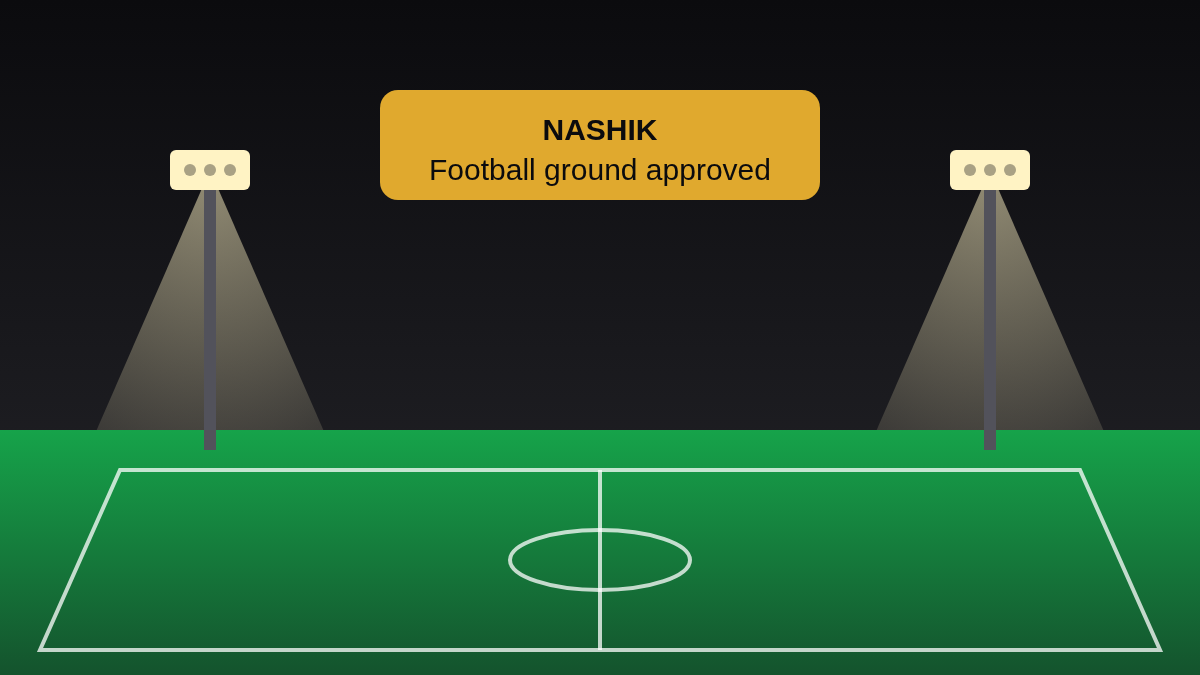
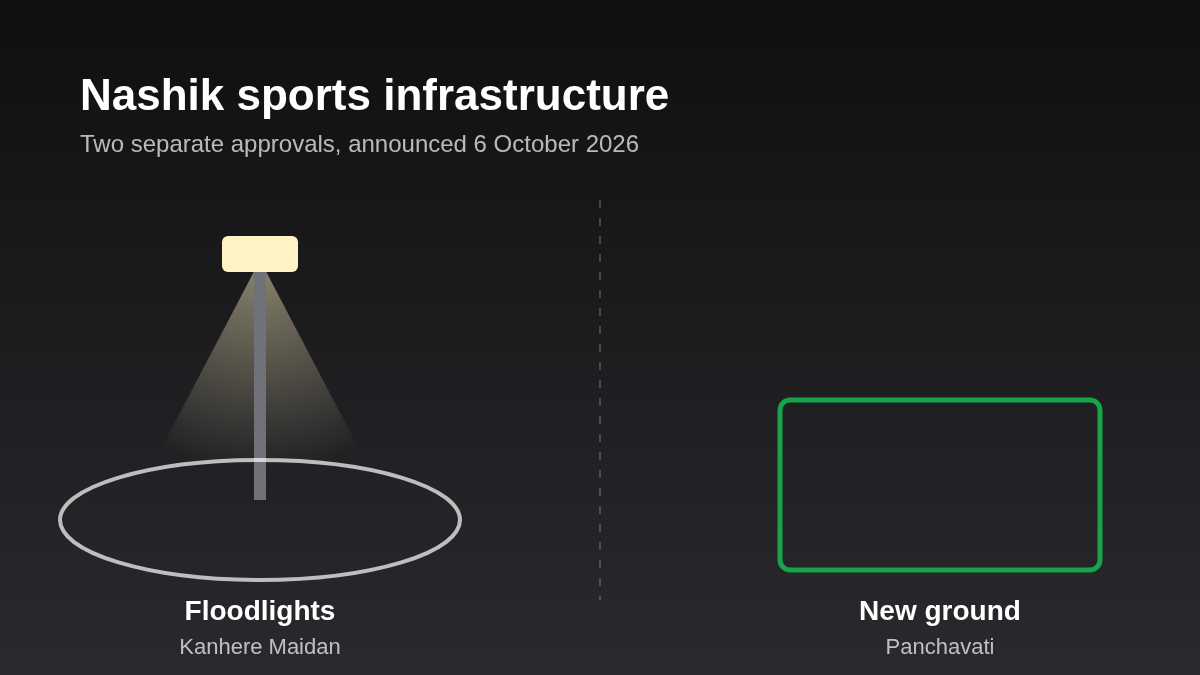
blog: Nashik football ground post edits (neutral hero, Wikipedia source, opening paragraph, drop cost figure)

diff --git a/tapturf-next/content/blog/posts/nashik-football-ground-kanhere-floodlights-approved.ts b/tapturf-next/content/blog/posts/nashik-football-ground-kanhere-floodlights-approved.ts
@@ -10,11 +10,12 @@ export const post: Post = {
   city: "nashik",
   readMinutes: 5,
   publishedAt: "2026-10-19",
+  updatedAt: "2026-10-19",
   coverEmoji: "📰",
   heroImage: {
     url: "/blog/art/nashik-football-ground-approved.svg",
     og: "https://www.tapturf.in/blog/art/nashik-football-ground-approved.png",
-    alt: "Illustration of a floodlit football ground at night with two tall floodlight masts and a Nashik news label",
+    alt: "Illustration of two separate Nashik sites: a floodlight mast beside a generic field outline, and a second field outline for a new ground",
   },
   keywords: [
     "nashik football ground",
@@ -28,13 +29,12 @@ export const post: Post = {
   cta: { href: "/nashik", label: "See turfs in Nashik" },
   blocks: [
     {
-      type: "callout",
-      title: "In brief",
-      text: "On 6 October 2026, Nashik district sports officer Sunanda Patil announced that the District Planning Committee has approved two projects: a national-standard football ground on about 8 acres in Mane Nagar, Panchavati, and high-mast floodlights at Hutatma Anant Kanhere Maidan. Both are approved, not built. No completion date has been reported.",
+      type: "p",
+      text: "Nashik's District Planning Committee has approved a national-standard football ground in Panchavati and high-mast floodlights at Hutatma Anant Kanhere Maidan, according to a press release by district sports officer Sunanda Patil on 6 October 2026. The two are separate projects, both approved and neither built, and no completion date has been reported.",
     },
     {
       type: "p",
-      text: "This is news about public sports infrastructure, not about private turfs. It matters to Nashik players because both projects, if delivered, add proper pitches and evening lighting to a city where many of us play on small-sided turfs. Below we separate what is confirmed from what is only reported or expected.",
+      text: "This is news about public sports infrastructure, not private turfs. If delivered, it adds a proper pitch and evening lighting to a city where many of us play on small-sided turfs. Below we separate what is confirmed from what is only reported or expected.",
     },
 
     { type: "h2", text: "What exactly has been approved in Nashik?" },
@@ -58,17 +58,13 @@ export const post: Post = {
     },
     {
       type: "p",
-      text: "We have no official document to settle it. On the weight of the Marathi reports, which follow the press note closely, the floodlights look cricket-focused. Treat any football use of that lighting as unconfirmed until the district sports office says otherwise.",
+      text: "Kanhere Maidan is a cricket ground, and Wikipedia lists the Maharashtra Cricket Association as its operator. That supports the cricket reading. We have no official document to settle it, but the Marathi reports follow the press note closely and the floodlights look cricket-focused. Treat any football use of that lighting as unconfirmed until the district sports office says otherwise.",
     },
 
     { type: "h2", text: "What did the officials and reports claim about the benefits?" },
     {
       type: "p",
       text: "These are stated expectations, not results. The reports say a proper ground should reduce injuries from rough surfaces, let Nashik host state and national football tournaments and professional leagues, and spare local players trips to Mumbai or Pune for quality facilities. They also say evening lighting lets students and working players practise after hours, and that the facilities could draw visitors and help local businesses.",
-    },
-    {
-      type: "p",
-      text: "One outlet, Navbharat Live, also gave a cost of about ₹21.11 lakh for the football ground. We have not seen that figure in the other reports we read, so we are not relying on it here.",
     },
 
     { type: "h2", text: "What does this mean for players in Nashik?" },
@@ -150,7 +146,8 @@ export const post: Post = {
         { label: "Pudhari, report published 7 October 2026", url: "https://pudhari.news/maharashtra/north-maharashtra/nashik/nashik-to-get-national-level-football-ground-and-floodlights-at-kanhere-stadium-sd22" },
         { label: "Prahaar, report published 7 October 2026", url: "https://www.prahaar.in/2026/10/07/nashik-national-standard-football-ground-in-nashik-high-mast-floodlights-for-night-cricket-at-kanhere-ground/" },
         { label: "Free Press Journal, report updated 7 October 2026", url: "https://www.freepressjournal.in/pune/nashik-city-set-to-host-national-level-football-matches-at-anant-kanhere-maidan" },
-        { label: "Navbharat Live, report published 7 October 2026 (source of the cost figure we do not rely on)", url: "https://navbharatlive.com/maharashtra/nashik/nashik-national-level-football-ground-kanhere-maidan-floodlights-mgb06" },
+        { label: "Navbharat Live, report published 7 October 2026", url: "https://navbharatlive.com/maharashtra/nashik/nashik-national-level-football-ground-kanhere-maidan-floodlights-mgb06" },
+        { label: "Wikipedia, Hutatma Anant Kanhere Maidan, accessed 19 October 2026 (for the ground's cricket use and operator; Wikipedia is user-edited)", url: "https://en.wikipedia.org/wiki/Hutatma_Anant_Kanhere_Maidan" },
       ],
       note: "Marathi and Hindi sources were read in the original and summarised in our own words. Details were checked on 19 October 2026.",
     },
